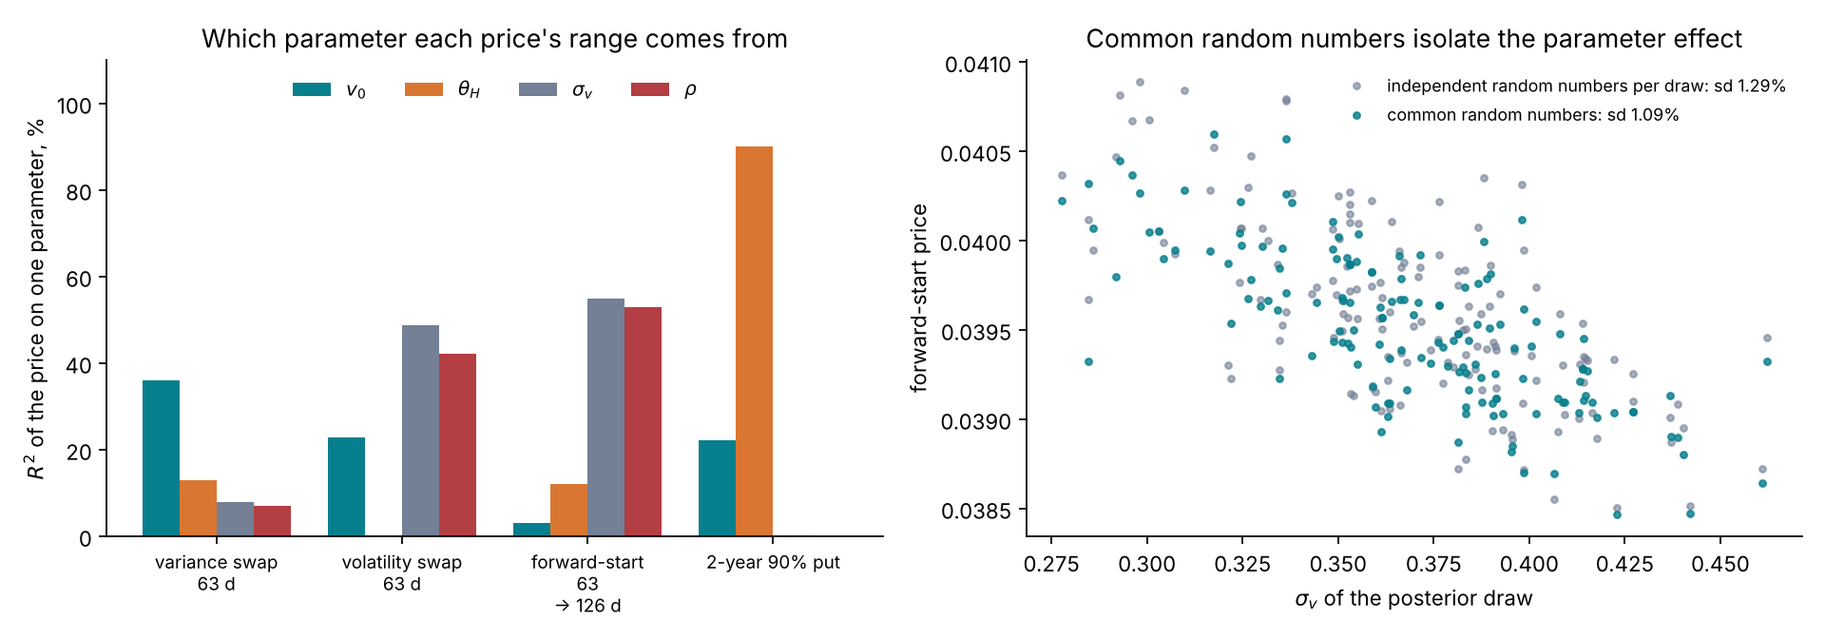
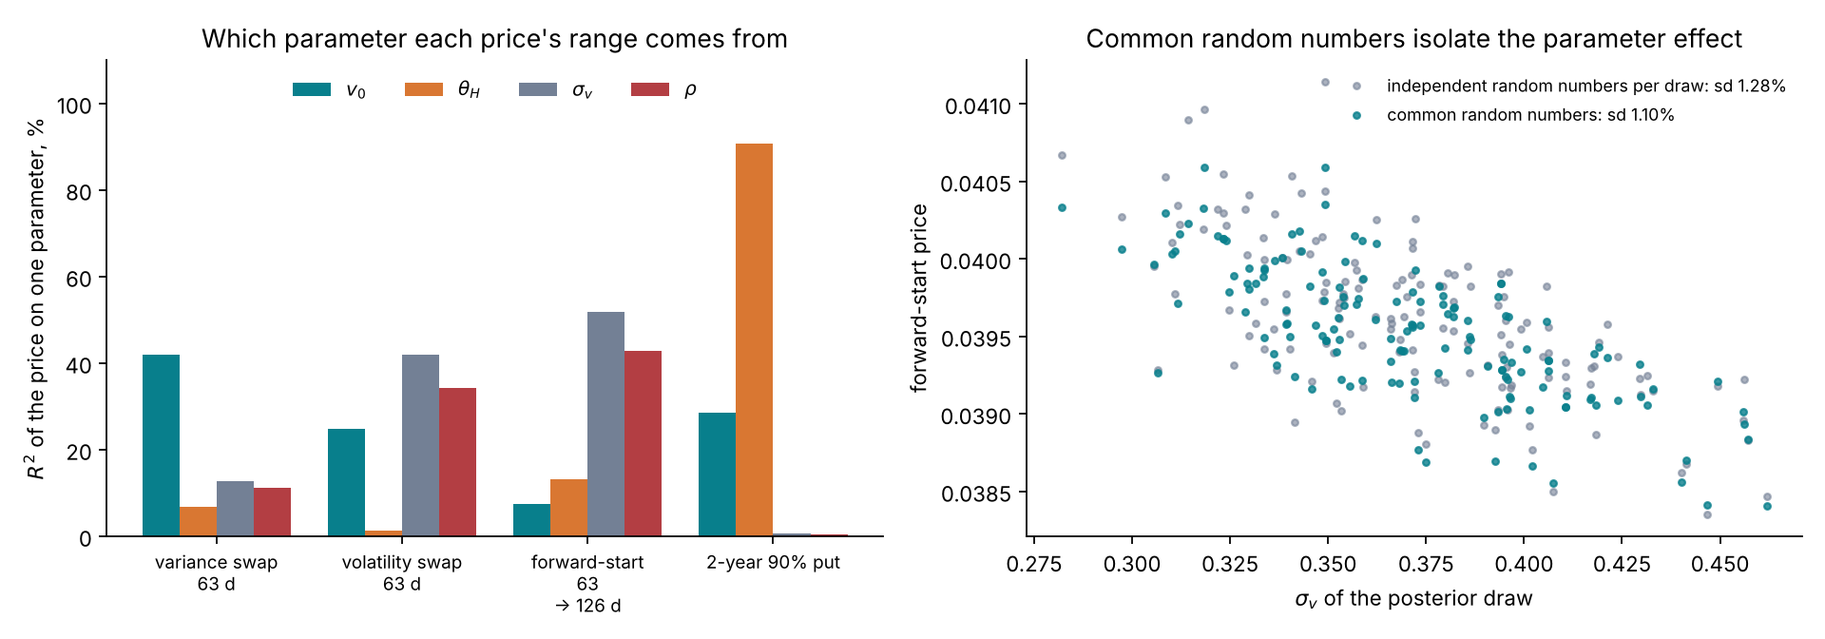
Course: lectures 8-10 complete; index and navigation list all 14 lectures (pre-review)
Claude-Session: https://claude.ai/code/session_01WKSw54nWszKuph7kz2GMSW

diff --git a/scripts/course/lecture09.py b/scripts/course/lecture09.py
@@ -162,7 +162,7 @@ def fig_bs_ml():
     ax.plot((grid - truth) * 100, info * (grid - s_hat) ** 2, color=COLORS[1], ls="--",
             label=r"quadratic: $(\sigma - \hat\sigma)^2\,J^\top W J$")
     ax.axhline(norm.ppf(0.95) ** 2, color="0.5", ls=":", lw=1)
-    ax.text(-0.48, norm.ppf(0.95) ** 2 + 0.3, r"$1.645^2$: 90% interval", fontsize=8.5, color="0.4")
+    ax.text(-0.37, norm.ppf(0.95) ** 2 + 0.3, r"$1.645^2$: 90% interval", fontsize=8.5, color="0.4")
     ax.set_xlabel(r"$\sigma$ minus the true 20%, volatility points")
     ax.set_ylabel(r"increase of the objective")
     ax.set_title("One synthetic smile: objective and its quadratic approximation")
@@ -287,7 +287,7 @@ def fig_toy_landscape():
     ends = np.array(ends)
     ax.plot([], [], "o", color=COLORS[1], label="end points of the 10 starts")
     ax.set_title("Levenberg–Marquardt from ten starts: one optimum, a long valley")
-    ax.legend(frameon=False, fontsize=8.5, loc="upper right")
+    ax.legend(frameon=False, fontsize=8.5, loc="upper center", bbox_to_anchor=(0.5, -0.12), ncol=3)
     ax = axes[1]
     cov, _ = toy_gn_cov(*best)
     vals, vecs = np.linalg.eigh(cov)
@@ -385,7 +385,7 @@ def fig_toy_coverage():
     ax.set_ylim(0, 105)
     ax.set_ylabel("coverage of the Gauss–Newton 90% interval, %")
     ax.set_title("Toy smile, 2,000 data sets per case")
-    ax.legend(frameon=False, fontsize=9, loc="lower right")
+    ax.legend(frameon=False, fontsize=9, loc="upper center", bbox_to_anchor=(0.5, -0.1), ncol=2)
     ax = axes[1]
     # coverage of eta as a function of the true rho*eta "valley position": true rho
     bins = np.linspace(*RHO_BOX, 9)

diff --git a/scripts/course/lecture10.py b/scripts/course/lecture10.py
@@ -606,7 +606,7 @@ def fig_products(draws, t_hat):
     ax.set_xlabel(r"$\sigma_v$ of the posterior draw")
     ax.set_ylabel("forward-start price")
     ax.set_title("Common random numbers isolate the parameter effect")
-    ax.legend(frameon=False, fontsize=8)
+    ax.legend(frameon=False, fontsize=8, loc="upper right")
     tidy(*axes2)
     save(fig, "l10-products-variance-and-crn.png")
     REPORT["products"] = dict(seconds=seconds, results=out,

diff --git a/docs/course/10-bayesian-calibration.md b/docs/course/10-bayesian-calibration.md
@@ -48,7 +48,7 @@ The prior states which parameter values are possible before the quotes are seen.
 | | $\sigma_v$ | Uniform(0.1, 1.5) | Volatility of variance |
 | | $\rho$ | Uniform(−0.95, −0.1) | Negative correlation only |
 
-The forward-variance curve $\xi_0$ is not in the table. It is read from the chain and held fixed (Lecture 5); the posterior is conditional on it.
+The forward-variance curve $\xi_0$ of rough Bergomi is not in the table. It is read from the chain and held fixed (Lecture 5), and the rough-Bergomi posterior is conditional on it; the simulations that train the network of Lecture 12 draw curves from a separate prior, which describes the curves the network must be ready for, not a belief about today's curve (design document, "The prior"). Heston has no such input: its forward-variance curve is a function of $v_0$ and $\theta_H$ (Lecture 6), and the conditioning on $\xi_0$ in the formulas of this lecture is empty for it.
 
 **Why uniform.** A uniform prior on a box makes the posterior proportional to the likelihood inside the box and zero outside:
 
@@ -166,7 +166,7 @@ The first equality uses $p(y \mid \theta^*)\,p(\theta^*) = p(\theta^* \mid y)\,p
 
 ## 10.7 Sampling a posterior: Metropolis–Hastings
 
-A grid works in one or two dimensions. In four, a grid of 100 points per parameter has $10^8$ points; at a millisecond per Heston surface that is 28 hours. A posterior in more than two dimensions is represented instead by draws $\theta^{(1)}, \dots, \theta^{(M)}$, and any posterior expectation is estimated by an average, $\mathbb E[f(\theta) \mid y] \approx \frac1M\sum_m f(\theta^{(m)})$.
+A grid works in one or two dimensions. In four, a grid of 100 points per parameter has $10^8$ points; at the 24 milliseconds per Heston surface measured in Section 10.8, that is about 28 days. A posterior in more than two dimensions is represented instead by draws $\theta^{(1)}, \dots, \theta^{(M)}$, and any posterior expectation is estimated by an average, $\mathbb E[f(\theta) \mid y] \approx \frac1M\sum_m f(\theta^{(m)})$.
 
 **The algorithm.** Write $\pi(\theta)$ for the unnormalized posterior, $p(y \mid \theta)\,p(\theta)$. The **Metropolis–Hastings** algorithm (Metropolis et al. 1953; Hastings 1970) builds a Markov chain whose long-run distribution is $\pi$. From the current state $\theta$:
 
@@ -196,19 +196,19 @@ which is symmetric in $\theta$ and $\theta'$. Detailed balance holds. With a pro
 
 ![Left and centre: four Metropolis chains for the toy posterior's eta, with steps too small and with steps scaled by the posterior covariance. Right: the pooled draws of the second run against the exact grid posterior.](images/l10-toy-mcmc.png)
 
-*Figure 10.6.* How to read the figure: each panel shows four chains of 4,000 steps from four starts spread over the box, with the first 1,000 steps (left of the dotted line) discarded. In the left panel the proposal has standard deviations of 0.02 in $\eta$ and 0.01 in $\rho$: ⟦toy_small⟧. In the centre panel the proposal covariance is the posterior covariance computed on the grid, times $2.38^2/2$: ⟦toy_tuned⟧. The right panel compares the 12,000 retained draws of the second run with the grid posterior of Figure 10.4.
+*Figure 10.6.* How to read the figure: each panel shows four chains of 4,000 steps from four starts spread over the box, with the first 1,000 steps (left of the dotted line) discarded. In the left panel the proposal has standard deviations of 0.02 in $\eta$ and 0.01 in $\rho$: the acceptance rate is 77%, but each step is short, so the chains wander slowly, still remember their starts after 1,000 steps and disagree with one another: $\hat R = 1.50$, and the 12,000 retained draws are worth 23 independent ones. In the centre panel the proposal covariance is the posterior covariance computed on the grid, times $2.38^2/2$: the acceptance rate is 24%, the chains forget their starts within a few hundred steps, $\hat R = 1.003$, and the effective sample size is 779. The right panel compares the 12,000 retained draws of the second run with the grid posterior of Figure 10.4.
 
 ## 10.8 A Heston posterior by Markov chain Monte Carlo
 
-The Heston task has four parameters, $(v_0, \theta_H, \sigma_v, \rho)$ with $\kappa = 2$ fixed, the prior box of Section 10.2 and the 63 contracts of the design grid. Each posterior evaluation is one Heston surface priced by the Fourier integral of Lecture 6. The test smile is the synthetic one of Lecture 8, Figure 8.6: the truth is $(v_0, \theta_H, \sigma_v, \rho) = (0.04, 0.05, 0.4, -0.7)$, a spot volatility of 20% and a long-run volatility of 22.4%, with the design noise added once.
+The Heston task has four parameters, $(v_0, \theta_H, \sigma_v, \rho)$ with $\kappa = 2$ fixed, the prior box of Section 10.2 and the 63 contracts of the design grid. Each posterior evaluation is one Heston surface priced by the Fourier integral of Lecture 6, on the quadrature rung of 1,024 nodes up to $u = 600$, with the repository's full quadrature ladder as the fallback where that rung violates the price bounds. The test smile is the synthetic one of Lecture 8, Figure 8.6: the truth is $(v_0, \theta_H, \sigma_v, \rho) = (0.04, 0.05, 0.4, -0.7)$, a spot volatility of 20% and a long-run volatility of 22.4%, with the design noise added once.
 
-The sampler works in logit coordinates with the log-Jacobian of Section 10.2. It runs in two stages. In the first, four chains start from points scattered around the least-squares optimum and use a proposal built from the Gauss–Newton covariance in logit coordinates, scaled by $2.38^2/4$; these ⟦n_adapt⟧ steps per chain are discarded. In the second, the proposal covariance is the covariance of the first stage's draws, scaled the same way, and each chain runs ⟦n_keep⟧ more steps, which are kept.
+The sampler works in logit coordinates with the log-Jacobian of Section 10.2. It runs in two stages. In the first, four chains start from points scattered around the least-squares optimum and use a proposal built from the Gauss–Newton covariance in logit coordinates, scaled by $2.38^2/4$; these 1,500 steps per chain are discarded. In the second, the proposal covariance is the covariance of the first stage's draws, scaled the same way, and each chain runs 4,000 more steps, which are kept.
 
 ![Top: four Metropolis chains per Heston parameter on one synthetic smile, with the end of the adaptation stage marked. Bottom: the posterior marginals against the Gauss–Newton normal densities, with the true values.](images/l10-heston-mcmc.png)
 
-*Figure 10.7.* How to read the figure: ⟦heston_fig⟧
+*Figure 10.7.* How to read the figure: the top row shows the four chains of each parameter over 5,500 steps; the 1,500 adaptation steps, left of the dotted line, are discarded. The chains mix: $\hat R$ is 1.002 for $v_0$ and $\theta_H$, 1.004 for $\sigma_v$ and 1.003 for $\rho$, the 16,000 kept draws are worth 1,017, 1,052, 764 and 705 independent draws, and the acceptance rate is 25% to 28%. The bottom row compares each marginal posterior (histogram) with the normal density of the Gauss–Newton interval at the least-squares point (dashed), and marks the truth (dotted). For $v_0$, $\theta_H$ and $\sigma_v$ the two agree: posterior standard deviations of 0.00044, 0.00135 and 0.034 against Gauss–Newton values of 0.00042, 0.00132 and 0.034. For $\rho$ the posterior is skewed toward the bound at −0.95: its 90% interval is −0.882 to −0.652, against the Gauss–Newton −0.855 to −0.637, and its standard deviation is 0.069 against 0.066. Every true value lies inside its posterior 90% interval: $v_0$ from 0.0392 to 0.0406, $\theta_H$ from 0.0473 to 0.0517, $\sigma_v$ from 0.317 to 0.429.
 
-⟦heston_interp⟧
+**Interpretation.** The Heston smile is well identified, and its posterior is close to the Gauss–Newton normal, as Bernstein–von Mises predicts and as study S6 found on 200 smiles (Lecture 9, Section 9.8). The posterior adds two things the point estimate hides. First, $\sigma_v$ and $\rho$ are correlated at 0.92 under the posterior: a larger vol of vol with a less negative correlation gives nearly the same skew. This is the ridge of Lecture 8's profile (Figure 8.6), where the refitted $\rho$ moved from −0.85 to −0.67 across the band $0.325 \leq \sigma_v \leq 0.425$; the posterior 90% interval of $\sigma_v$, 0.317 to 0.429, matches that band. Second, $v_0$ and $\theta_H$ are correlated at −0.54: the shortest quotes pin $v_0$, and the longer ones pin an average of $v_0$ and $\theta_H$. The run cost 22,000 posterior evaluations in 525 seconds, 24 milliseconds per Heston surface, on the course's two-core machine while other jobs shared it.
 
 The tutorial's study S3 ran the same check on four held-out Heston test smiles, with four chains of 6,000 steps after 1,000 of burn-in per smile: $\hat R$ was at most 1.011, every parameter had at least 413 effective draws, and the four chains of one smile cost about 400 CPU-seconds (design document, study S3). Those chains are the exact posterior against which the amortized network of Lecture 12 is checked.
 
@@ -238,9 +238,18 @@ the posterior variance of the price plus the Monte Carlo variance $s^2$: the noi
 
 ![The prices of four products under 300 posterior draws of the synthetic Heston smile, relative to the least-squares price, with the 90% quantile and the price at the true parameters.](images/l10-heston-products.png)
 
-*Figure 10.8.* How to read the figure: ⟦products_fig⟧
+*Figure 10.8.* How to read the figure: each panel is one product; the histogram is its price at 300 posterior draws, relative to the least-squares price (solid line); the dashed line is the 90% quantile and the dotted line the price at the true parameters. Every price uses the same 8,192 paths, at about 0.43 seconds per parameter set. The table gives the numbers.
 
-⟦products_interp⟧
+| Product | Least-squares price | 90% range, % of the posterior mean | Short reserve, % of the point | Long reserve, % of the point | Price at the truth, relative to the point |
+| --- | --- | --- | --- | --- | --- |
+| Variance swap 63 d | 0.04191 | 2.56% | 0.94% | 1.03% | +0.53% |
+| Volatility swap 63 d | 0.19992 | 1.71% | 0.69% | 0.57% | −0.03% |
+| Forward-start 63 → 126 d | 0.03949 | 3.17% | 1.52% | 1.13% | −0.32% |
+| 2-year 90% put | 0.07157 | 4.39% | 1.77% | 1.76% | +0.29% |
+
+Prices are in forward units, the volatility swap in volatility units. The ranges are a few percent, the size of the cached ranges of study S7 on three other Heston test smiles (Figure 8.8), and every price at the truth lies inside its range. The variance swap's range, 2.56%, is much wider than the ±0.4% of Lecture 8's profile, and the put's, 4.39%, much wider than ±0.13%. The profile moved $\sigma_v$ and refitted the rest to their best values; these two prices move with $v_0$ and $\theta_H$, which the profile did not vary (Section 10.10). A range read off one direction of the parameter space misses the others; the posterior includes all of them.
+
+**The effect of common random numbers.** On the first 150 draws, the forward-start's standard deviation across draws is 0.000434 (1.10% of its price) with common random numbers and 0.000505 (1.28%) with an independent stream per draw. By the formula above, the Monte Carlo noise per price is $\sqrt{0.000505^2 - 0.000434^2} \approx 0.00026$, and it inflates the apparent spread by 16%. For the put the inflation is 3%. For the volatility swap it is within sampling error, because its control variate removes most of the noise; for the variance swap, priced from the exact mean, it is zero.
 
 ## 10.10 Which parameter each range comes from
 
@@ -254,7 +263,7 @@ $S_i$ is the share of the price's variance that knowing $\theta_i$ alone would r
 
 ![Left: for each product, the share of its posterior price variance explained by each Heston parameter alone. Right: the forward-start price against the vol of vol of each posterior draw, with common and with independent random numbers.](images/l10-products-variance-and-crn.png)
 
-*Figure 10.9.* How to read the figure: ⟦shares_fig⟧
+*Figure 10.9.* How to read the figure: in the left panel, each group of bars is one product and each bar the $R^2$ of its price on one parameter across the 300 draws. The 2-year put's range comes from the long-run variance: $\theta_H$ alone explains 91% of it, $v_0$ 29%, $\sigma_v$ and $\rho$ under 1%. The forward-start's comes from the vol of vol and the correlation: $\sigma_v$ explains 52% and $\rho$ 43%, and because the two are correlated at 0.92 these shares overlap. The volatility swap is a mix: $\sigma_v$ 42%, $\rho$ 34%, $v_0$ 25%. The variance swap is the instructive case: no single parameter explains more than 42% ($v_0$), because its strike is the combination $0.787\,v_0 + 0.213\,\theta_H$ (Section 10.11) of two parameters whose posterior correlation is −0.54, and each alone is a poor predictor of the combination; the two together explain all of it. The design document's study S7 found the same pattern on three other Heston smiles: $v_0$ explaining 0.40 to 0.54 of the variance swap and $\theta_H$ 0.76 to 0.91 of the put. The right panel shows the forward-start price against the $\sigma_v$ of each of 150 draws: with common random numbers (blue) the points trace the parameter effect; with independent streams (grey) the Monte Carlo noise scatters them.
 
 ## 10.11 The variance swap: Heston against rough Bergomi
 
@@ -270,7 +279,7 @@ and its posterior range is that of the linear combination $\frac{1 - e^{-\kappa 
 
 ![The 90% posterior range of four products on three Heston test smiles and three rough-Bergomi pilot smiles, from the cached results of study S7.](images/l10-cached-ranges.png)
 
-*Figure 10.10.* How to read the figure: each group of bars is one product; the green bars are three Heston test smiles and the blue bars three rough-Bergomi smiles of the pilot study; the height is the 90% range as a share of the posterior mean (`tutorial_final/results/calibration/heston/s7/products.json`, `tutorial_final/results/calibration/rough-pilot/s7/products.json`). Under Heston the variance swap's range is 1.57%, 0.97% and 2.59% on the three smiles; under rough Bergomi it is zero on all three. The other products have ranges under both models: the volatility swap 0.61% to 1.64% under Heston and 0.98% to 3.26% under rough Bergomi, the forward-start 1.65% to 3.65% and 2.22% to 9.34%, the two-year put 1.68% to 6.15% and 2.54% to 17.69%. The rough-Bergomi ranges come from the pilot network's posterior, whose intervals are 1.3 to 1.6 times too wide (design document, study S5), so they overstate the exact posterior's ranges; the full study replaces them with ⟨S7⟩.
+*Figure 10.10.* How to read the figure: each group of bars is one product; the green bars are three Heston test smiles (rows 2,300 to 2,302) and the blue bars three rough-Bergomi smiles of the pilot study (rows 290 to 292), one shade per smile; the height is the 90% range as a share of the posterior mean (`tutorial_final/results/calibration/heston/s7/products.json`, `tutorial_final/results/calibration/rough-pilot/s7/products.json`). Under Heston the variance swap's range is 1.57%, 0.97% and 2.59% on the three smiles; under rough Bergomi it is zero on all three. The other products have ranges under both models: the volatility swap 0.61% to 1.64% under Heston and 0.98% to 3.26% under rough Bergomi, the forward-start 1.65% to 3.65% and 2.22% to 9.34%, the two-year put 1.68% to 6.15% and 2.54% to 17.69%. The rough-Bergomi ranges come from the pilot network's posterior, whose intervals are 1.3 to 1.6 times too wide (design document, study S5), so they overstate the exact posterior's ranges; the full study replaces them with ⟨S7⟩.
 
 Under rough Bergomi, every product's range comes from $(H, \eta, \rho)$ alone, and in the pilot study the volatility of variance $\eta$ explains most of it: a single-parameter $R^2$ of 0.77 to 0.96 for the volatility swap and 0.94 to 0.97 for the forward-start (design document, study S7).
 
@@ -279,10 +288,10 @@ Under rough Bergomi, every product's range comes from $(H, \eta, \rho)$ alone, a
 The posterior is exact for the model, the prior and the observation model it is given. It does not cover what it is not given.
 
 1. **The choice of model.** The posterior range is within-model. The gap between rough Bergomi and Heston calibrated to the same smile, 4% to 8% of the forward-start's price in the pilot, is larger than either model's reserve (Lecture 8, Section 8.10; design document, study S7). Across-model and model-free bounds remain separate numbers.
-2. **The observation model.** The noise scale $s_{\text{iv}}(\delta)$, its independence across contracts and its Gaussian shape are assumptions (Lecture 9, Section 9.1). A noise scale twice as large would make every posterior about twice as wide.
+2. **The observation model.** The noise scale $s_{\text{iv}}(\delta)$, its independence across contracts and its Gaussian shape are assumptions (Lecture 9, Section 9.1). A noise scale twice as large would make the posterior about twice as wide in every direction where it is close to normal, since the Gauss–Newton covariance $(J^\top W J)^{-1}$ scales with $\sigma_c^2$.
 3. **The prior box.** Values outside the box have zero posterior probability, whatever the quotes say. The posterior predictive check and the position of the posterior against the bounds show when the box binds.
 4. **The forward-variance curve.** $\xi_0$ is read from the chain and held fixed. Its uncertainty, which comes from the same quotes, is not propagated.
-5. **Numerical error.** The Fourier ladder and the Monte Carlo pricer have errors of their own, kept below 0.1 and 0.25 quote-noise units by construction (design document, "Heston" and "Rough Bergomi: a Monte Carlo run"). The Monte Carlo error of each product price is reported beside its range.
+5. **Numerical error.** The pricers have errors of their own. The Fourier ladder accepts a rung when it agrees with the next one to 0.1 quote-noise units on every contract, and the rough-Bergomi Monte Carlo doubles its paths until every standard error is below 0.25 quote-noise units, with up to 0.5 tolerated at the corner of the prior box (design document, "Heston" and "Rough Bergomi: a Monte Carlo run"). The Monte Carlo error of each product price is reported beside its range.
 6. **Approximate inference.** A sampler that has not converged, or a network that approximates the posterior (Lecture 12), adds its own error. $\hat R$, the effective sample size, simulation-based calibration and the audit of Lecture 13 measure it.
 
 ## 10.13 Summary
@@ -296,7 +305,7 @@ The posterior is exact for the model, the prior and the observation model it is 
 7. Metropolis–Hastings samples any posterior whose density can be evaluated up to a constant; $\hat R$ and the effective sample size check the run.
 8. Product prices at posterior draws, with common random numbers, give the range, the 90% quantile and the reserve, and the law of total variance names the parameter each range comes from. Under Heston the variance swap has a range; under rough Bergomi it has none.
 
-Each posterior evaluation here was one priced surface: microseconds for Black–Scholes and ⟦ms_per_eval⟧ for Heston. For rough Bergomi it is a Monte Carlo run of 5.0 CPU-seconds, and an exact posterior by these chains costs about 17 CPU-hours per smile (design document, "The cost of the exact posterior"). Lecture 11 explains why that cost cannot be avoided by a better pricer, and what can be done instead.
+Each posterior evaluation here was one priced surface: microseconds for Black–Scholes and 24 milliseconds for Heston. For rough Bergomi it is a Monte Carlo run of 5.0 CPU-seconds, and an exact posterior by these chains costs about 17 CPU-hours per smile (design document, "The cost of the exact posterior"). Lecture 11 explains where that cost comes from and what the alternatives to the exact chain are.
 
 ## References
 

diff --git a/docs/course/09-calibration-as-estimation.md b/docs/course/09-calibration-as-estimation.md
@@ -113,7 +113,7 @@ $$
 \big(J^\top J + \lambda\,\mathrm{diag}(J^\top J)\big)\Delta = J^\top r .
 $$
 
-A large $\lambda$ gives a short step along the gradient, which is safe; a small $\lambda$ gives the Gauss–Newton step, which is fast. The algorithm lowers $\lambda$ after a step that reduces $\chi^2$ and raises it after a step that does not. Parameter bounds are enforced by projecting each step back into the allowed box, or by a trust-region method that respects bounds (the course's scripts use `scipy.optimize.least_squares`). The derivatives $\partial P_c/\partial\theta_j$ come from the formula for Black–Scholes, from differentiating the Fourier integral for Heston (Lecture 6), and from finite differences of Monte Carlo prices with common random numbers for rough Bergomi (Lecture 7; design document, "The Gauss–Newton interval").
+A large $\lambda$ gives a short step along the gradient, which is safe; a small $\lambda$ gives the Gauss–Newton step, which is fast. The algorithm lowers $\lambda$ after a step that reduces $\chi^2$ and raises it after a step that does not. Parameter bounds are enforced by projecting each step back into the allowed box, or by a trust-region method that respects bounds (the course's scripts fit the multi-parameter models with the bounded trust-region solver of `scipy.optimize.least_squares`, the one Black–Scholes volatility with a bounded scalar search, and draw the paths of Figure 9.4 with a plain Levenberg–Marquardt loop). The derivatives $\partial P_c/\partial\theta_j$ come from the formula for Black–Scholes, from finite differences of the Fourier price for Heston (Lecture 6), and from finite differences of Monte Carlo prices for rough Bergomi, which need common random numbers to exist at all (Lecture 7; design document, "The Gauss–Newton interval").
 
 ## 9.6 The Gauss–Newton covariance and the delta method
 
@@ -155,7 +155,7 @@ $$
 y_j = \rho\,\eta\,x_j + 0.05\,\eta^2\,x_j^2 + s_j\,\varepsilon_j, \qquad s_j = 0.01 + 0.1\,x_j^2, \qquad \eta \in (0.5,\ 3.5),\quad \rho \in (-0.99,\ -0.2).
 $$
 
-The odd part of the smile, the skew, carries $\rho\eta$ and is read where the noise is small. The even part, the curvature, carries $\eta^2$, is small, and is read where the noise is ten times larger. The box is the rough-Bergomi range of $\eta$ and $\rho$ (design document, "The prior"). At the truth $(\eta, \rho) = (1.0, -0.87)$, the Gauss–Newton standard deviation of $\rho\eta$ is 0.028, 3% of its value, and that of $\eta$ is 0.48, nearly half of its value: the product is identified and the factors are not. The valley of the objective runs along the hyperbola $\rho = -0.87/\eta$ and is cut by $\rho = -0.99$ at $\eta = 0.88$.
+The odd part of the smile, the skew, carries $\rho\eta$ and is large against the noise: at $x = 0.5$ it is 0.435 in size against a noise of 0.035. The even part, the curvature, carries $\eta^2$, is small, and is largest in the wings, where the noise is largest: at $x = 1$ it is 0.05 against a noise of 0.11. The box is the rough-Bergomi range of $\eta$ and $\rho$ (design document, "The prior"). At the truth $(\eta, \rho) = (1.0, -0.87)$, the Gauss–Newton standard deviation of $\rho\eta$ is 0.028, 3% of its value, and that of $\eta$ is 0.48, nearly half of its value: the product is identified and the factors are not. The valley of the objective runs along the hyperbola $\rho = -0.87/\eta$ and is cut by $\rho = -0.99$ at $\eta = 0.88$.
 
 ![Left: the toy objective with the paths of Levenberg–Marquardt from ten starts. Right: the Gauss–Newton 90% ellipse at the optimum against the exact region where the objective is within 4.6 of its minimum, inside the box.](images/l09-toy-landscape.png)
 
@@ -177,7 +177,7 @@ Study S6 of the design document measured the classical route on the tutorial's t
 
 ![Left: for Heston, the width of the Gauss–Newton 90% interval divided by the width of the posterior 90% interval, per parameter, over the 189 test smiles with an interval. Right: the 90% coverage of Gauss–Newton and posterior intervals per parameter, for Heston and the rough-Bergomi pilot.](images/l09-cached-classical.png)
 
-*Figure 9.6.* How to read the figure: in the left panel, a ratio of 1 means the two intervals have the same width. For Heston the median ratio is 1.03 for $v_0$, 1.02 for $\theta_H$, 1.03 for $\sigma_v$ and 1.02 for $\rho$; for $\sigma_v$ and $\rho$ the 90th percentile is 1.47 and 1.34, and single smiles reach ratios of 3.6 for $\sigma_v$ and 8.0 for $\rho$ (computed from the cached intervals). On 11 of the 200 smiles the information matrix is singular, because the optimum sits at a bound of the box, and no interval exists. In the right panel, Heston's Gauss–Newton coverage is 90%, 87%, 92% and 90%, against the posterior's 90%, 89%, 90% and 87%: the classical route works on Heston. On the 8 rough-pilot smiles, Gauss–Newton covers 100% for $H$, 86% for $\eta$ and 71% for $\rho$, against the pilot posterior's 88%, 75% and 75%; one smile has no interval, with its optimum at $\rho = -0.99$. Eight smiles cannot separate the two routes. A rough-Bergomi least-squares fit costs a median 605 CPU-seconds per smile, against 10 for Heston.
+*Figure 9.6.* How to read the figure: in the left panel, a ratio of 1 means the two intervals have the same width. For Heston the median ratio is 1.03 for $v_0$, 1.02 for $\theta_H$, 1.03 for $\sigma_v$ and 1.02 for $\rho$; for $\sigma_v$ and $\rho$ the 90th percentile is 1.47 and 1.34, and single smiles reach ratios of 3.6 for $\sigma_v$ and 8.0 for $\rho$, or fall to 0.01 for $\sigma_v$ (computed from the cached intervals). On 11 of the 200 smiles the information matrix is singular, because the optimum sits at a bound of the box, and no interval exists. In the right panel, Heston's Gauss–Newton coverage is 90%, 87%, 92% and 90%, against the posterior's 90%, 89%, 90% and 87%: the classical route works on Heston. On the 8 rough-pilot smiles, Gauss–Newton covers 100% for $H$, 86% for $\eta$ and 71% for $\rho$, against the pilot posterior's 88%, 75% and 75%; one smile has no interval, with its optimum at $\rho = -0.99$. Eight smiles cannot separate the two routes. A rough-Bergomi least-squares fit costs a median 605 CPU-seconds per smile, against 10 for Heston.
 
 The rough-Bergomi figure of the study shows the toy's geometry on a real model.
 
@@ -209,7 +209,7 @@ $$
 \exp\!\Big(-\tfrac12\chi^2(\theta) - \tfrac{\lambda}{2}\|\theta - \theta_{\text{ref}}\|^2\Big) \;\propto\; p(y \mid \theta)\;\times\;\mathcal{N}\!\Big(\theta;\ \theta_{\text{ref}},\ \tfrac{1}{\lambda}I\Big),
 $$
 
-so $\hat\theta_\lambda$ is the mode of a posterior under a Gaussian prior centred on $\theta_{\text{ref}}$ with variance $1/\lambda$ in each coordinate. (With the objective $\chi^2$ written without the factor $\tfrac12$, as in the design document, the prior variance is $1/(2\lambda)$.) Regularization returns the posterior's mode and discards its width.
+so $\hat\theta_\lambda$ is the mode of a posterior under a Gaussian prior centred on $\theta_{\text{ref}}$ with variance $1/\lambda$ in each coordinate. (The design document's Appendix E.3 gives $1/(2\lambda)$; with its own objective, which is $\chi^2$ as here, the derivation above gives $1/\lambda$.) Regularization returns the posterior's mode and discards its width.
 
 ![Left: the toy smile's regularized point as the penalty grows, moving from the least-squares optimum toward the centre of the box. Right: Heston test smile 2,102 of study S6, the regularized vol of vol and correlation and their product, against the penalty.](images/l09-tikhonov.png)
 
@@ -231,9 +231,9 @@ The neural pricer's error enters the calibration as an extra error on every mode
 
 ![Left: the held-out error of a small neural pricer for Heston, in units of the quote noise. Centre: the difference between least squares with the neural pricer and with the exact pricer, in Gauss–Newton standard deviations, on 25 noisy test smiles. Right: the one-step inverse map's estimate of the vol of vol against the truth on 300 test smiles.](images/l09-deep-calibration.png)
 
-*Figure 9.9.* How to read the figure: the network is a three-layer perceptron with 128 units per layer, trained on 3,000 Heston surfaces ($\kappa = 2$) priced on the design grid in 81 seconds, for 325 epochs in 269 seconds. In the left panel its held-out root-mean-square error is 0.16 $\sigma_c$ at the median contract and 0.25 $\sigma_c$ at the worst; 99% of its absolute errors are below 0.50 $\sigma_c$. In the centre panel, least squares with this pricer lands a median 0.18 to 0.33 Gauss–Newton standard deviations from least squares with the exact pricer, and up to 1.8 for $\sigma_v$: an error of 0.2 $\sigma_c$ on 63 prices moves the fit by a fraction of its own uncertainty, and occasionally by more. In the right panel, the one-step inverse map recovers $\sigma_v$ with a root-mean-square error of 0.042, against a median Gauss–Newton standard deviation of 0.030, and $\rho$ with 0.046 against 0.016: it is fast and returns a point, and no interval. The tutorial's own Heston pricer, larger and trained on 50,000 surfaces, has a held-out error of 0.029 $\sigma_c$ at the median contract and 0.041 $\sigma_c$ at the worst (design document, study S4).
+*Figure 9.9.* How to read the figure: the network is a three-layer perceptron with 128 units per layer, trained on 3,000 Heston surfaces ($\kappa = 2$) priced on the design grid in 66 seconds, for 325 epochs in 19 seconds (wall-clock times on the course's machine; the 3,000 Fourier surfaces cost more than the training). In the left panel its held-out root-mean-square error is 0.16 $\sigma_c$ at the median contract and 0.25 $\sigma_c$ at the worst; 99% of its absolute errors are below 0.50 $\sigma_c$. In the centre panel, least squares with this pricer lands a median 0.18 to 0.33 Gauss–Newton standard deviations from least squares with the exact pricer, and up to 1.8 for $\sigma_v$: an error of 0.2 $\sigma_c$ on 63 prices moves the fit by a fraction of its own uncertainty, and occasionally by more. In the right panel, the one-step inverse map recovers $\sigma_v$ with a root-mean-square error of 0.042, against a median Gauss–Newton standard deviation of 0.030, and $\rho$ with 0.046 against 0.016: it is fast and returns a point, and no interval. The tutorial's own Heston pricer, larger and trained on 50,000 surfaces, has a held-out error of 0.029 $\sigma_c$ at the median contract and 0.041 $\sigma_c$ at the worst (design document, study S4).
 
-**Interpretation.** Deep calibration solves the cost problem of least squares and keeps its output, one point. Lecture 10 shows that a neural pricer also makes the likelihood cheap, so that a posterior can be sampled on it (the neural-likelihood route of study S4), and Lecture 12 shows how a network can return the posterior directly.
+**Interpretation.** Deep calibration solves the cost problem of least squares and keeps its output, one point. A neural pricer also makes the likelihood cheap, so that a posterior can be sampled on it: the neural-likelihood route of study S4 runs four Metropolis chains of 20,000 steps on the tutorial's Heston pricer at a median 12 CPU-seconds per smile (design document, study S4). Lecture 10 introduces such chains, and Lecture 12 shows how a network can return the posterior directly.
 
 ## 9.12 Identifiability and ill-posedness
 

diff --git a/docs/course/README.md b/docs/course/README.md
@@ -27,18 +27,18 @@ The lectures follow one line of argument in four parts. Each part needs the one 
 | 3 | [Brownian motion, stochastic differential equations and Itô's lemma](03-brownian-motion-and-ito.md) | The mathematics of continuous-time randomness, why volatility is measurable and the drift is not | Written |
 | 4 | [The Black–Scholes model](04-black-scholes.md) | Hedging, the disappearance of the drift, the risk-neutral measure, the pricing formula, the sensitivities, and the model's limits | Written |
 | 5 | [Implied volatility and the smile](05-implied-volatility-and-the-smile.md) | How quotes are read, what the market's smile looks like, what it says about the distribution of returns, and the variance swap | Written |
-| 6 | Stochastic volatility: the Heston model | A random variance correlated with the price, the characteristic function, Fourier pricing, and where Heston's smile has the wrong shape | Planned |
-| 7 | Rough volatility: the rough Bergomi model | Roughness, the power-law skew, the forward-variance curve as an input, and Monte Carlo as the only pricer | Planned |
+| 6 | [Stochastic volatility: the Heston model](06-heston.md) | A random variance correlated with the price, the characteristic function, Fourier pricing, how each parameter shapes the smile, a fit to SPY, and where Heston's smile has the wrong shape | Written |
+| 7 | [Rough volatility: the rough Bergomi model](07-rough-bergomi.md) | Evidence of roughness, the Volterra driver, the forward-variance curve as an input, the hybrid scheme and the Monte Carlo pricer, the power-law skew, and what the smile identifies | Written |
 | **Part II** | **Why the problem matters** | | |
-| 8 | Calibration on a derivatives desk | Daily calibration, marking exotics, calibration risk in the literature, the products that the smile does not pin down, and what the rules ask for | Planned |
+| 8 | [Calibration on a derivatives desk](08-calibration-on-a-desk.md) | Daily calibration, the products the smile does not pin down (variance swap, volatility swap, forward start, cliquet), one model with several calibrations, the literature on calibration risk, and what the rules ask for | Written |
 | **Part III** | **What Bayesian inference adds** | | |
-| 9 | Calibration as estimation | The observation model of a quote, the likelihood, least squares as maximum likelihood, standard errors, multi-start, regularization and deep calibration | Planned |
-| 10 | Bayesian calibration | The posterior, identification read off the posterior, propagation to product prices and reserves, posterior predictive checks and misspecification, on Black–Scholes and Heston | Planned |
+| 9 | [Calibration as estimation](09-calibration-as-estimation.md) | The observation model of a quote, the likelihood, least squares as maximum likelihood, the Gauss–Newton interval and where it fails, multi-start, regularization and deep calibration | Written |
+| 10 | [Bayesian calibration](10-bayesian-calibration.md) | The prior and the posterior, Black–Scholes on SPY as a misspecified model, identification, credible against confidence intervals, Metropolis–Hastings, a Heston posterior, and propagation to product prices and reserves | Written |
 | **Part IV** | **Making the posterior affordable** | | |
-| 11 | Why the exact posterior is expensive | The rough-Bergomi likelihood as a Monte Carlo run, and the cost of MCMC | Planned |
-| 12 | Amortized inference | Neural posterior estimation, flow matching, the training bank, the network, and the neural-pricer alternative | Planned |
-| 13 | Validating an amortized posterior | Simulation-based calibration, agreement with exact posteriors, the importance-sampling audit, the posterior predictive check on a real smile | Planned |
-| 14 | The study and the tutorial | The nine feasibility studies, their results, the costs, the real SPY smile, and the tutorial's narrative and risks | Planned |
+| 11 | [Why the exact posterior is expensive](11-why-the-exact-posterior-is-expensive.md) | The rough-Bergomi likelihood as a Monte Carlo run, the effect of Monte Carlo error on it, the cost of an exact chain, and the alternatives | Written |
+| 12 | [Amortized inference](12-amortized-inference.md) | Why simulated pairs carry the posterior, neural posterior estimation, flow matching and its sampler, the tutorial's network and training bank, and the neural-pricer alternative | Written |
+| 13 | [Validating an amortized posterior](13-validating-an-amortized-posterior.md) | The prior predictive check, simulation-based calibration, contraction and coverage, agreement with exact posteriors, the importance-sampling audit, and the posterior predictive check | Written |
+| 14 | [The study and the tutorial](14-the-study-and-the-tutorial.md) | The two claims, the nine feasibility studies and where they stand, the costs, the real SPY smile, products and reserves, and the tutorial's narrative and risks | Written |
 
 ## Conventions
 
@@ -51,7 +51,7 @@ The lectures follow one line of argument in four parts. Each part needs the one 
 
 ## Where each section of the design document is covered
 
-The table lists every main section of the design document and the lecture that covers it. A lecture marked *planned* will cover the section when it is written.
+The table lists every main section of the design document and the lecture that covers it.
 
 | Design-document section | Lecture |
 | --- | --- |
@@ -64,9 +64,9 @@ The table lists every main section of the design document and the lecture that c
 | Notation and key terms: symbols; statistical vocabulary | Defined where first used across 1–14 |
 | The model: Black–Scholes and the smile | 4, 5 |
 | The model: Heston | 6 |
-| The model: rough Bergomi; the prior; prior predictive check; computing the 63 model prices; the example surface; the skew's term structure | 7 (model, pricing, skew), 9 (prior), 13 (prior predictive check) |
+| The model: rough Bergomi; the prior; prior predictive check; computing the 63 model prices; the example surface; the skew's term structure | 7 (model, pricing, skew), 10 (prior), 13 (prior predictive check) |
 | The model: from parameters to a product price | 8 |
-| The observation model (quotes, design grid, noise model, identification) | 5 (design grid), 9 (quote and noise), 10 (identification) |
+| The observation model (quotes, design grid, noise model, identification) | 5 (design grid), 9 (quote and noise), 7 and 10 (identification) |
 | Why the likelihood is expensive | 11 |
 | Classical calibration and where it fails | 9 |
 | Amortized design | 12 |

diff --git a/docs/course/05-implied-volatility-and-the-smile.md b/docs/course/05-implied-volatility-and-the-smile.md
@@ -1,6 +1,6 @@
 # Lecture 5. Implied volatility and the smile
 
-[Course index](README.md) · Previous: [Lecture 4](04-black-scholes.md) · Next: Lecture 6. Stochastic volatility: the Heston model (planned)
+[Course index](README.md) · Previous: [Lecture 4](04-black-scholes.md) · Next: [Lecture 6. Stochastic volatility: the Heston model](06-heston.md)
 
 **What this lecture is for.** This lecture turns option prices into the quantity the market actually trades and quotes: implied volatility. It defines implied volatility, shows how to compute it and how precisely a quote determines it, reads the real SPY chain of 21 October 2026 onto the tutorial's design grid, and describes the pattern the market shows: the **smile**, with its skew and its term structure. It then explains what the smile says about the distribution of future prices, which mechanisms produce it, which constraints no-arbitrage puts on it, and how the variance swap and the forward-variance curve are read from it.
 
